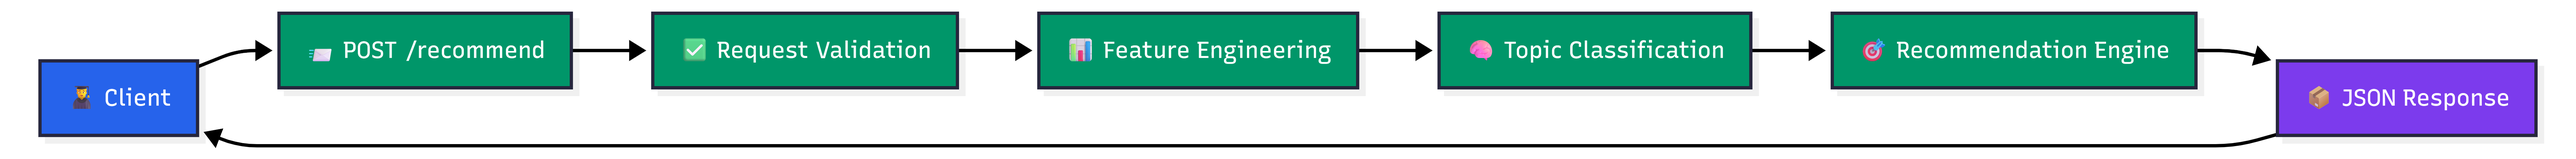
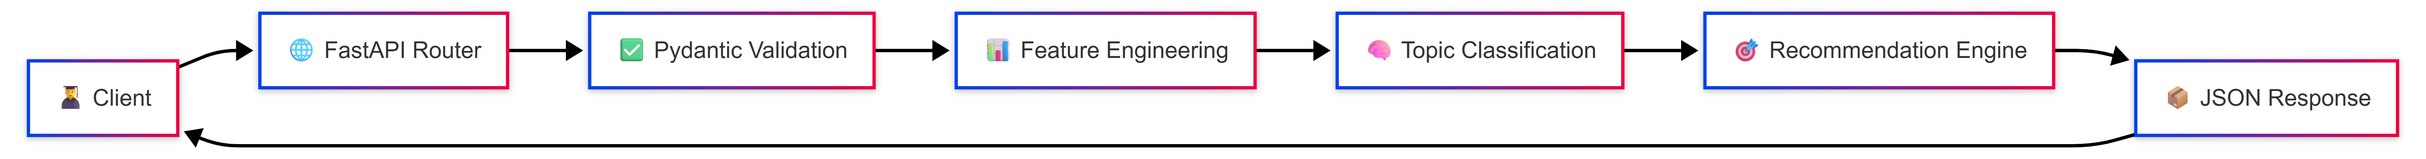
Final Project Sturcture Diagram added and API request edited

diff --git a/Docs/Project Structure.md b/Docs/Project Structure.md
@@ -1,0 +1,2 @@
+# Project Structure
+![Project Structure Diagram](./Project%20Structure.png)
